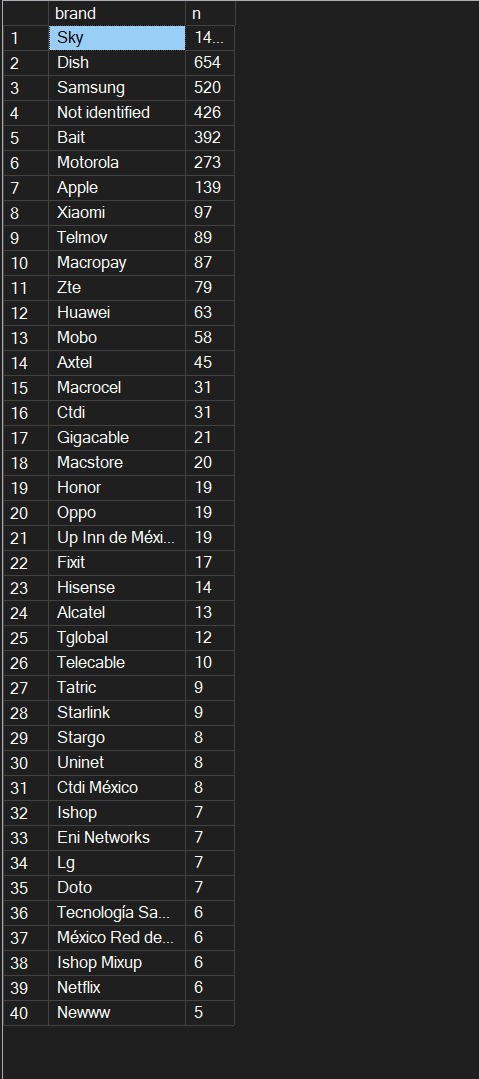
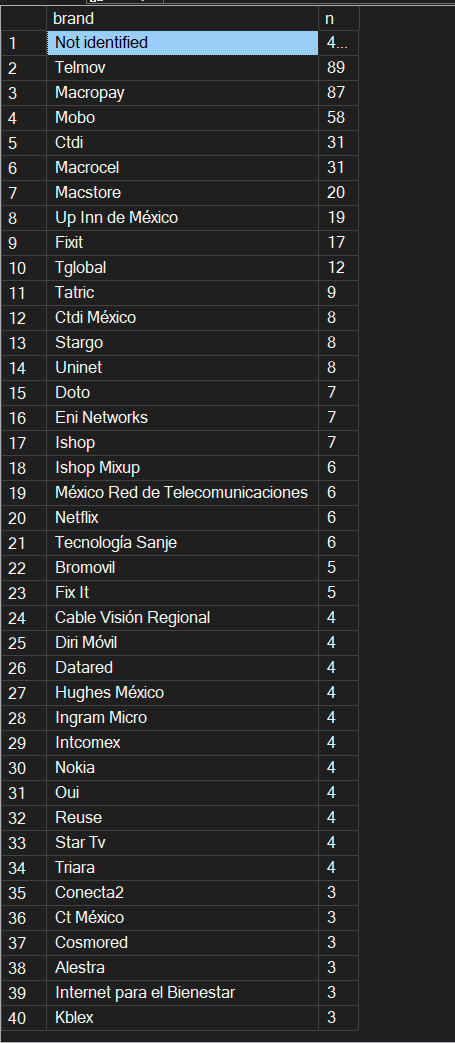
Record checks 14 to 16, add check 3.3.17 and sync glossary
- Add results of checks 3.3.14 to 3.3.16 to MX_profeco.md and run_log:
  office H, brand categories and the meaning of odeco.
- Add check 3.3.17 to step_3.sql (state vs office consistency).
- Update README, decision D8 and the glossary.

diff --git a/docs/sources/MX_profeco.md b/docs/sources/MX_profeco.md
@@ -126,7 +126,9 @@ Only the end of each file was inspected, and the checks for criteria 1 and 4 wer
 - [x] Captures of checks B and C (`giro`) of block 2.8 (`step_2_8_b.png`, `step_2_8_c_giro.png`).
 - [x] Block 2.2 re-run with the exact comparison: 36,034 distinct IDs (`step_2_2.png`).
 - [ ] SHA-256 of the base file, and the license of the dataset.
-- [ ] Meaning of the column `odeco` (check 3.3.16 of `step_3.sql`, revision 2) and of the amount columns, from the PROFECO data dictionary page.
+- [x] Meaning of the column `odeco`: name of the PROFECO office (check 3.3.16).
+- [ ] Meaning of the amount columns (decision D9), from the PROFECO data dictionary page.
+- [ ] Capture again `step_3_check_06p1.png` and `step_3_check_06p2.png` after revision 2, and run check 3.3.17.
 - [x] BIT portal: download pages and the list of tables (criterion 4).
 - [ ] BIT: confirm that the `TotalPlay` rows of `EMPRESA` have `GRUPO` = `GRUPO SALINAS`, and read the terms of use.
 
@@ -378,10 +380,13 @@ It is not possible to tell which of the two dates is wrong. The rows are flagged
 | 3.3.11 Identical rows | 0 groups of fully identical rows in `stg` | ![3.3.11](../img/step_3_check_11.png) |
 | 3.3.12 State and office | Internet channel: 19,626 of 19,772 cases (99.3%) are in Ciudad de México. By brand: Megacable 69.7%, Total Play 68.3%, Izzi 59.1%, Telmex 21.2%. The office in the case ID matches the state one to one (YUC 940, JAL 670, GTO 663, ...), except office `H` (about 19,700 cases), which is Ciudad de México | ![3.3.12](../img/step_3_check_12.png) |
 | 3.3.13 Amounts | `monto_reclamado` = 0 in 28,142 rows (78%); `monto_recuperado` = 0 in 22,187 (62%); recovered larger than claimed in 8,739 rows (24%). The biggest differences have claimed 0.00 and a large recovered amount | ![3.3.13](../img/step_3_check_13.png) |
+| 3.3.14 Office H and channel (revision 2) | Office `H`: 19,798 cases, all in Ciudad de México (Internet 19,607, Personal 140, Escrito 40, no channel 10, Correo Electrónico 1). The other 165 Internet cases are spread over 31 states | ![3.3.14](../img/step_3_check_14.png) |
+| 3.3.15 Brands by category (revision 2) | Mobile 18,231 (5 brands); Fixed 13,358 (9 brands); Pay TV (satellite) 2,101 (2); Device maker 1,243 (11); Not classified 1,101 (163 brands). Total 36,034 | ![3.3.15](../img/step_3_check_15.png) |
+| 3.3.16 `odeco` (revision 2) | `odeco` is the name of the PROFECO office (zone), one per office code (for example "Zona Metropolitana de Mérida" is YUC). Office `H` has two names: "Dir. Gral. Cons. Telecom" (16,016) and "Dgpct" (3,782) | ![3.3.16](../img/step_3_check_16.png) |
 
 The days with a valid duration add up to 35,961 (34,773 + 1,098 + 59 + 31), the same value as the flag.
 
-Image names follow the pattern `step_3_check_<NN>.png`; a check with two result tables has two files, `p1` and `p2` (check 6).
+Image names follow the pattern `step_3_check_<NN>.png`; a check with two result tables has two files, `p1` and `p2` (check 6). The images `step_3_check_06p1.png` and `step_3_check_06p2.png` are from run 1 (before revision 2) and have to be captured again; the brand table of revision 2 is in check 15.
 
 ### What the results say
 

diff --git a/docs/run_log.md b/docs/run_log.md
@@ -7,7 +7,7 @@ Record of each script execution on the local instance (SQL Server 2025 Express, 
 | 0 | `sql/common/step_0.sql` | 2026-10-25 | Done |
 | 1 | `sql/mx_profeco/step_1.sql` | 2026-10-26 | Done (second attempt, see incident) |
 | 2 | `sql/mx_profeco/step_2.sql` | 2026-10-26 | Done (gate passed on 2026-10-27) |
-| 3 | `sql/mx_profeco/step_3.sql` | 2026-10-27 | Run 1 done (checks 1 to 13); revision 2 to run |
+| 3 | `sql/mx_profeco/step_3.sql` | 2026-10-27 | Run 1 done (checks 1 to 13); revision 2 done (checks 14 to 16) |
 
 ## Step 0: database and schemas
 
@@ -90,12 +90,18 @@ Two checks were added after the first run and gave findings that changed the des
 - **Check 3.3.12 (state):** the state is the PROFECO office that handled the case, and the Internet channel is handled by one central office in Ciudad de México (decision D8).
 - **Check 3.3.13 (amounts):** the claimed amount is 0 in 78% of the rows and the recovered amount exceeds the claimed one in 24% (decision D9).
 
-### Revision 2 (to run)
+### Revision 2 (run on 2026-10-29)
 
 Changes in `step_3.sql`, from the results of checks 3.3.6, 3.3.12 and 3.3.13:
 
 - `clean.brand_map` has new categories: Fixed (Axtel, Gigacable, Telecable, Newww, Starlink), Mobile (Bait), Pay TV (satellite) (Sky, Dish) and Device maker (Samsung, Motorola, Apple, Xiaomi, ZTE, Huawei, Honor, Oppo, Alcatel, LG, Hisense).
 - `clean.profeco_complaint` has three new columns: `office_code` (from the case ID), `office_name` (`odeco`) and `flag_central_office` (office `H`).
-- New checks: 3.3.14 (office H and channel), 3.3.15 (brands by category) and 3.3.16 (meaning of `odeco`).
+- New checks: 3.3.14 (office H and channel), 3.3.15 (brands by category), 3.3.16 (meaning of `odeco`) and, added afterwards, 3.3.17 (is the state always the state of the office?), which is still to be run.
 
-After running it, repeat and save these captures: `step_3_check_06p1.png` and `step_3_check_06p2.png` (brands), and new `step_3_check_14.png`, `step_3_check_15.png` and `step_3_check_16.png`. The other checks do not change; compare them with the values already recorded.
+Results (images `step_3_check_14.png` to `step_3_check_16.png`, details in `docs/sources/MX_profeco.md`):
+
+- Office `H` has 19,798 cases and 99.2% of the Internet channel (19,607 of 19,772); the other 165 Internet cases are spread over 31 states.
+- Brands by category add up to 36,034: Mobile 18,231 (5 brands), Fixed 13,358 (9 brands), Pay TV (satellite) 2,101, Device maker 1,243 (11 brands) and Not classified 1,101 (163 brands).
+- `odeco` is the name of the office (zone). Office `H` has two names, "Dir. Gral. Cons. Telecom" (16,016) and "Dgpct" (3,782).
+
+Still to do: capture again `step_3_check_06p1.png` and `step_3_check_06p2.png` (the files in the repository are from run 1, before the new brand categories), and run check 3.3.17.

diff --git a/docs/decisions.md b/docs/decisions.md
@@ -181,12 +181,13 @@ Each entry records the context, the options considered, the decision and the rea
   - B. Use `estado` only for cases not handled centrally, label it "PROFECO office", and compare providers at national level.
   - C. Drop every state analysis. Rejected: 45% of the cases (16,262) come from regional offices and keep a useful regional view.
 - **Decision:** B.
-  1. The clean layer keeps `office_code` (from the case ID), `office_name` (`odeco`, meaning to be confirmed) and `flag_central_office` (office `H`).
+  1. The clean layer keeps `office_code` (from the case ID), `office_name` (`odeco`, the name of the office) and `flag_central_office` (office `H`).
   2. Analyses by region use only `flag_central_office = 0`, are titled "by PROFECO office", and show how many cases they leave out.
   3. The headline provider comparison uses all the cases and the national BIT accesses of each operator group.
   4. Rates per 100,000 accesses by state are exploratory: the consumers of one state can be served by another office.
 - **Reasons:** a result that depends on how PROFECO routes cases must not be read as a result about the consumers of each state.
-- **Revisit if:** the PROFECO data dictionary or check 3.3.16 (`odeco`) shows that `estado` is the residence of the consumer, or if office `H` turns out to be something else.
+- **Later evidence (2026-10-29):** `odeco` is the name of the office (check 3.3.16), and office `H` has 19,798 cases (99.2% of the Internet channel, check 3.3.14), with two names: "Dir. Gral. Cons. Telecom" and "Dgpct". Check 3.3.17 will measure how often the state of a case differs from the main state of its office.
+- **Revisit if:** check 3.3.17 shows that `estado` is often the residence of the consumer, or the PROFECO data dictionary says so.
 
 ---
 

diff --git a/README.md b/README.md
@@ -86,7 +86,7 @@ The pipeline stages above describe how the data flow. The project phases below d
 |---|---|---|
 | 0 | Repository scaffold and feasibility gate on the Mexican dataset | Done (4 of 4 criteria passed, decision D1) |
 | 1 | Create database and schemas; load raw data into `stg` | Done (`step_0` and `step_1`) |
-| 2 | Clean and normalize: types, durations, provider mapping | Done (`step_3`; open points: brand classification, meaning of the state) |
+| 2 | Clean and normalize: types, durations, provider mapping | Done (`step_3`, revision 2; the state is the PROFECO office, see D8) |
 | 3 | Load denominators (subscribers) and build dimensions | Pending |
 | 4 | Build the `mart` star schema; SQL validation queries | Pending |
 | 5 | Power BI model, DAX measures and report | Pending |
@@ -124,7 +124,7 @@ Desk research on the candidate sources is complete, and the five PROFECO files w
 | Amounts | `costo_bien_servicio`, `monto_reclamado`, `monto_recuperado` |
 | Purchase | `clase`, `tipo_producto`, `modalidad_compra`, `modalidad_pago` |
 
-The names differ from the published data dictionary (which uses upper case, for example `ID_EXP`). Profiling showed that `giro` classifies the provider (not the service of the complaint) and that `clase` separates services from goods. The meaning of `odeco` is still to be confirmed.
+The names differ from the published data dictionary (which uses upper case, for example `ID_EXP`). Profiling showed that `giro` classifies the provider (not the service of the complaint) and that `clase` separates services from goods. `odeco` is the name of the PROFECO office that handled the case (check 3.3.16 of `step_3.sql`).
 
 ### Known caveats
 

diff --git a/docs/glossary_of_terms.md b/docs/glossary_of_terms.md
@@ -72,6 +72,21 @@ Technical terms used in this project, in the order in which they became relevant
 - **What it is:** a function that tries to convert a value to another type (for example text to number) and returns `NULL` instead of an error when it cannot.
 - **Where it is used:** to find and later clean values such as `-` in amount columns.
 
+### Empty text and dates
+
+- **What it is:** an empty text (`''`) is not `NULL`. Converted to a date, an empty text becomes `1900-01-01` instead of an error or `NULL`.
+- **Where it matters here:** the 66 cases without close date. `step_3.sql` writes `NULLIF(text, '')` before `TRY_CONVERT`, so an empty value becomes `NULL` and never a false date.
+
+### CTE (common table expression)
+
+- **What it is:** a named step written with `WITH name AS (SELECT ...)`. The next query reads it as if it were a table.
+- **Where it is used:** `step_3.sql` builds the clean table in steps (`c`, `s`, `r`): trim and convert, fix and join, derive groups. Each step is short and can be checked alone.
+
+### Surrogate key
+
+- **What it is:** a number the project assigns to each row, with no meaning of its own, used as its identifier.
+- **Where it is used:** `complaint_key` in `clean.profeco_complaint`. `case_id` cannot be the key because 2 case IDs appear for two providers each (4 rows).
+
 ## Data architecture
 
 ### Staging (`stg`) and raw layer
